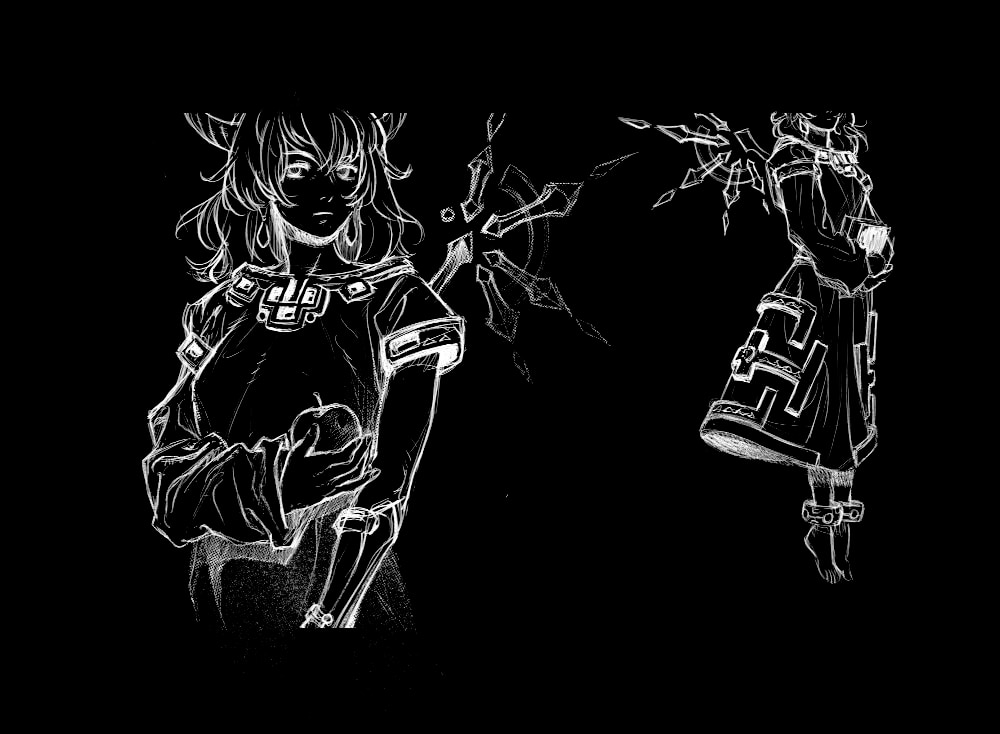
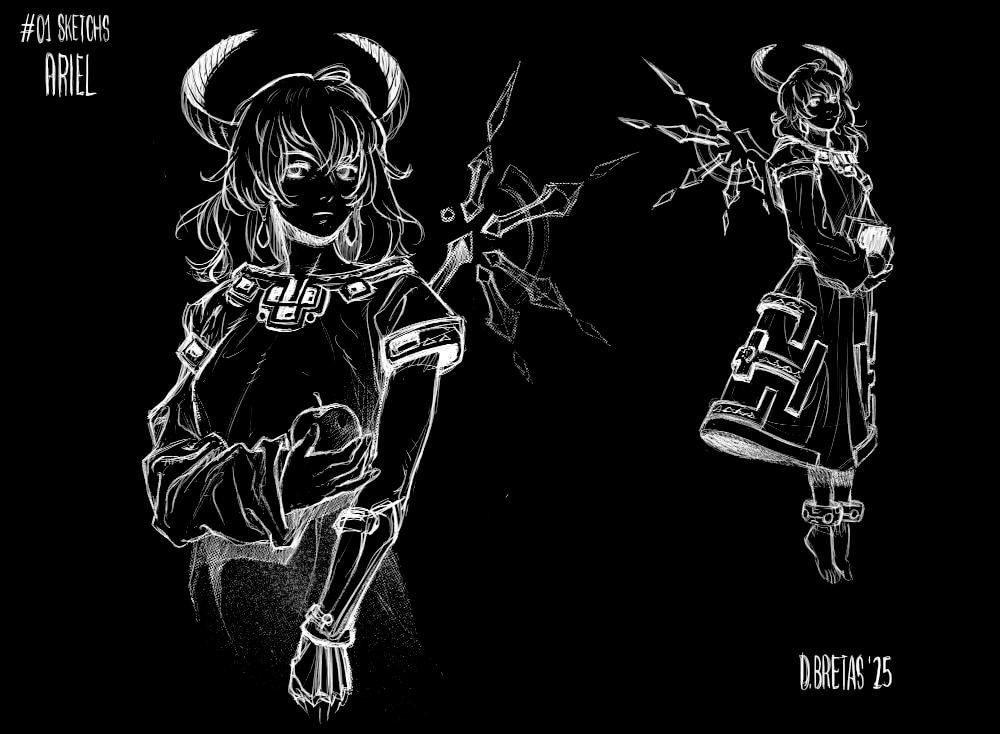
Revisão 14: capa do volume 1 e estudos como vieram do caderno
- Capa do mangá ("This Is Why We Fight", arte do Match) tratada como objeto
  físico na Loja: lombada, sombra e leve giro, para a moldura branca ler como
  papel em vez de retângulo colado num site preto.
- A mesma capa entra na lista de espera, e só ali: na Loja fica desligada para
  não repetir na mesma página.
- Artes de estudo voltam a ser as originais, com "#01 SKETCHS / NOME" e
  "D.BRETAS '25" à mostra, por decisão do Bruno. Continua sendo feita apenas a
  normalização de fundo (14-25 -> 0,6), sem a qual o screen clareia o card e
  produz o azulado.

diff --git a/src/i18n/conteudo/loja.ts b/src/i18n/conteudo/loja.ts
@@ -17,6 +17,10 @@ export interface Regiao {
 }
 
 interface ConteudoLoja {
+  capaRotulo: string;
+  capaTitulo: string;
+  capaTexto: string;
+  capaAlt: string;
   titulo: string;
   rotulo: string;
   lead: string;
@@ -30,6 +34,10 @@ interface ConteudoLoja {
 
 export const LOJA: Record<Idioma, ConteudoLoja> = {
   pt: {
+    capaRotulo: "Volume 01 // Capa",
+    capaTitulo: "This Is Why We Fight",
+    capaTexto: "A capa do primeiro volume, com arte de Guilherme Match. É por ela que a obra chega às mãos de quem ainda não conhece o mundo.",
+    capaAlt: "Capa do volume 1 de Mukō-Gawa: um guerreiro alado de armadura, empunhando uma lâmina, sobre fundo vermelho",
     titulo: "Loja",
     rotulo: "Onde comprar",
     lead: "Edições, preços, frete e disponibilidade são responsabilidade do varejista da sua região.",
@@ -52,6 +60,10 @@ export const LOJA: Record<Idioma, ConteudoLoja> = {
   },
 
   en: {
+    capaRotulo: "Volume 01 // Cover",
+    capaTitulo: "This Is Why We Fight",
+    capaTexto: "The cover of the first volume, with art by Guilherme Match. It is how the work reaches the hands of someone who does not yet know this world.",
+    capaAlt: "Cover of Mukō-Gawa volume 1: a winged warrior in armour, blade drawn, against a red field",
     titulo: "Shop",
     rotulo: "Where to buy",
     lead: "Editions, pricing, shipping and availability are handled by the retailer for your region.",
@@ -75,6 +87,10 @@ export const LOJA: Record<Idioma, ConteudoLoja> = {
 
   // Traduzido do PT-BR. Pendente de revisão por falante nativo.
   es: {
+    capaRotulo: "Volumen 01 // Portada",
+    capaTitulo: "This Is Why We Fight",
+    capaTexto: "La portada del primer volumen, con arte de Guilherme Match. Es por ella que la obra llega a las manos de quien aún no conoce este mundo.",
+    capaAlt: "Portada del volumen 1 de Mukō-Gawa: un guerrero alado con armadura, espada en mano, sobre fondo rojo",
     titulo: "Tienda",
     rotulo: "Dónde comprar",
     lead: "Ediciones, precios, envío y disponibilidad son responsabilidad del minorista de tu región.",
@@ -98,6 +114,10 @@ export const LOJA: Record<Idioma, ConteudoLoja> = {
 
   // Base: site modelo. Pendente de revisão.
   ja: {
+    capaRotulo: "第1巻 // 表紙",
+    capaTitulo: "This Is Why We Fight",
+    capaTexto: "第1巻の表紙。作画はギリェルミ・マッチ。まだこの世界を知らない読者の手に、作品が最初に届く姿である。",
+    capaAlt: "『向こう側』第1巻の表紙：赤を背に、刃を携えた翼ある鎧の戦士",
     titulo: "ショップ",
     rotulo: "購入先",
     lead: "版・価格・配送・在庫は各地域の販売元が取り扱います。",
